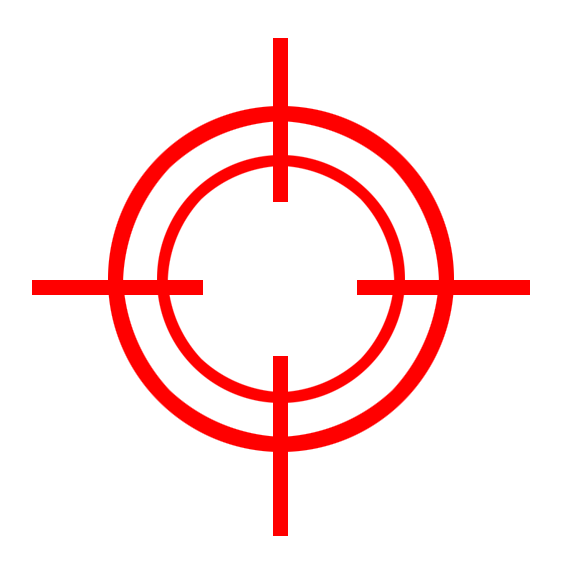
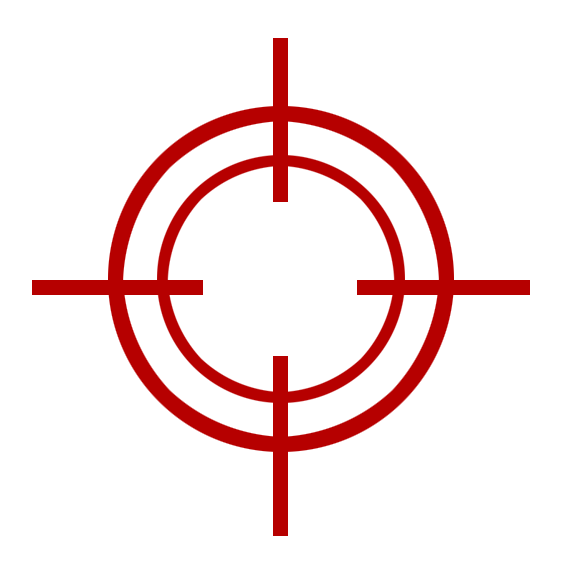
changed color and scale of track button

Changed region(s): [[0.0625, 0.0625, 0.9375, 0.9375]]

diff --git a/Button-iOS/Button/ButtonViewController.m b/Button-iOS/Button/ButtonViewController.m
@@ -65,9 +65,9 @@
     mapView.delegate=self;
     
     trackButton = [UIButton buttonWithType:UIButtonTypeRoundedRect];
-    trackButton.frame = CGRectMake(self.view.frame.size.width-65,self.view.frame.size.height-87.5,
-                                   50, 50);
-    [trackButton setBackgroundImage:[UIImage imageNamed:@"targetUnactive.png"] forState:UIControlStateNormal];
+    trackButton.frame = CGRectMake(self.view.frame.size.width-80,self.view.frame.size.height-100,
+                                   75, 75);
+    [trackButton setBackgroundImage:[UIImage imageNamed:@"targetInactive.png"] forState:UIControlStateNormal];
     [trackButton setBackgroundImage:[UIImage imageNamed:@"targetActive.png"] forState:UIControlStateSelected];
     [trackButton addTarget:self action:@selector(toggleTracking) forControlEvents:UIControlEventTouchUpInside];
     [secondView addSubview:trackButton];
